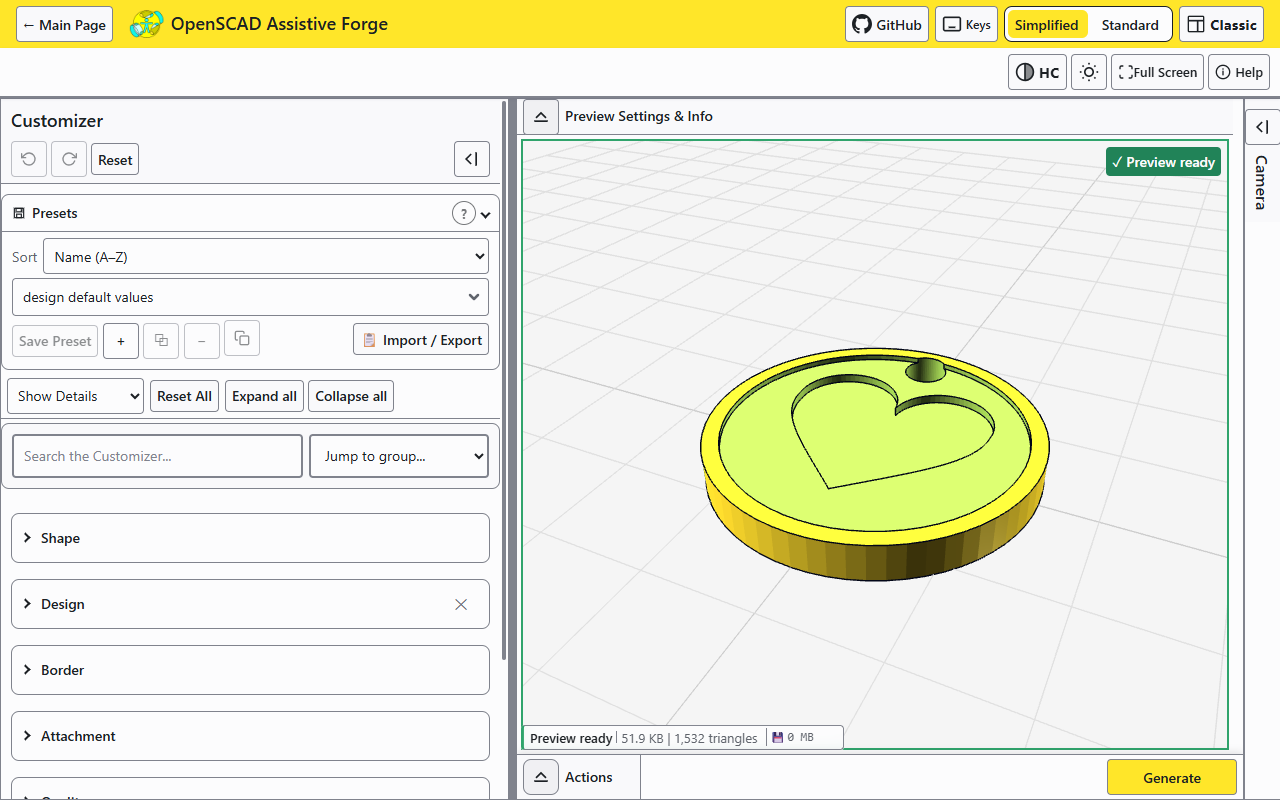
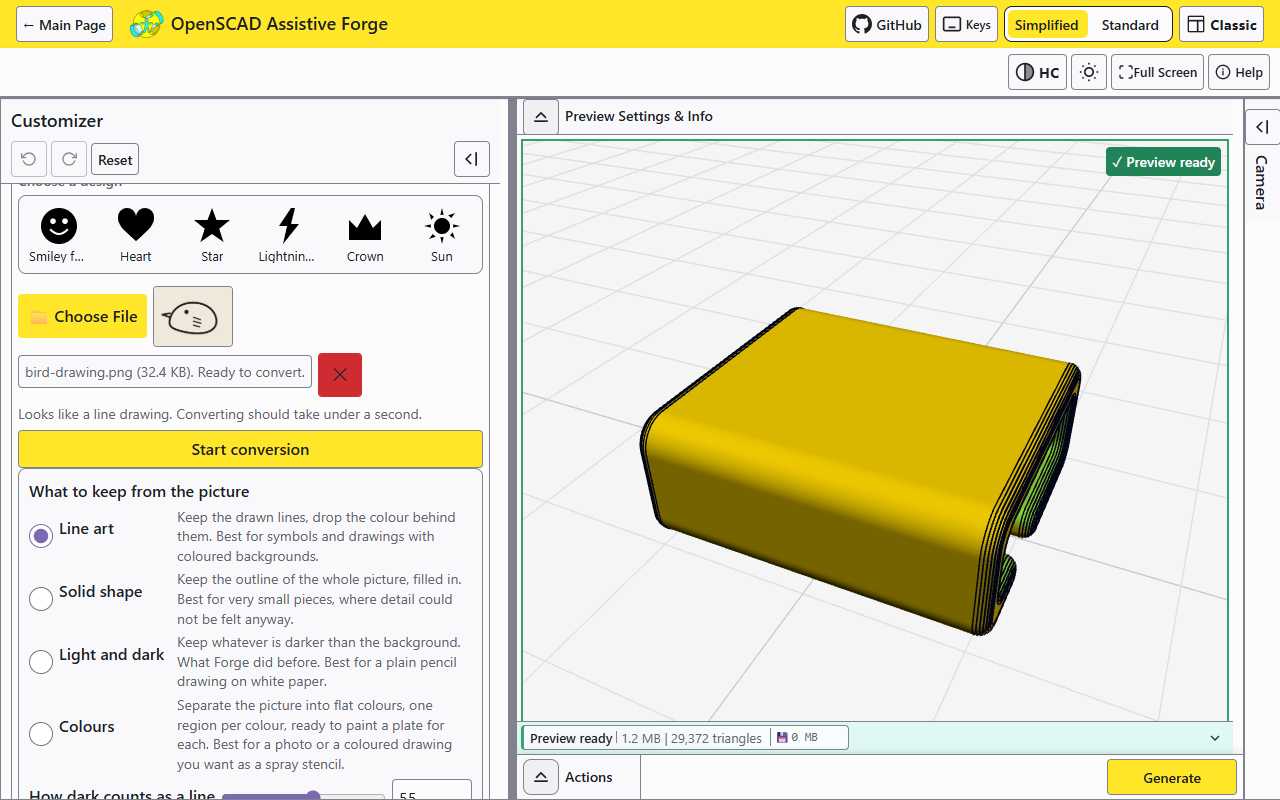
docs(journal): the two pictures this round changed most, retaken (DP-42 P2)
Both were taken before DP-37 through DP-41 and neither showed the app as it
is. The old editor picture is the clearest case: it still said "Regions" and
"Foreground", and its colour key still said "Printed shape" beside a control
saying "Raised" - a defect that was only fixed at P0b, an hour before this
picture was taken.

- charm-customizer.png is now the design file control doing the thing this
  round built: a picture chosen, the quick look's sentence under it ("Looks
  like a line drawing. Converting should take under a second."), Start
  conversion, and the four plain choices for what to keep from a picture.
- drawing-editor.png is the editor on the charm, where the Drawing / Charm
  switch exists - through the standalone door there is no charm to show, so
  the control is not offered there. One picture under "Will print as", the
  colour key reading Raised, Hole and Ignore, and the Shapes panel with the
  signed row beside it.

Both 1280x800 like the rest of the journal. Both are the repo's own bird
drawing; the larger raster that keeps the file control from starting by
itself (DP-Q32: under 0.5 MP and quick, or it waits for Start) was made from
that same fixture and stays out of the tree.

The section's words gained what the pictures cannot say: the quick look and
what waits for Start, the worker and the nineteen seconds that became one
and a half, the rebuilt row and the vocabulary behind it, the Drawing /
[…]

diff --git a/docs/updates/WHATS_NEW_v5.md b/docs/updates/WHATS_NEW_v5.md
@@ -75,7 +75,7 @@ folder instead of a mystery string.
 
 ## A charm from a drawing
 
-![The Charm Designer: a round pendant with a heart design and a hanging hole, with Shape, Design, Border, and Attachment parameter groups](images/charm-customizer.png)
+![The Charm Designer's design file control with a bird drawing chosen. Under the file name it reads "Looks like a line drawing. Converting should take under a second.", then a Start conversion button, then four choices for what to keep from the picture: Line art, Solid shape, Light and dark, and Colours, each with a sentence explaining when to use it](images/charm-customizer.png)
 
 The Charm Designer turns a simple drawing into a wearable pendant,
 and feeding it your own art is now a documented job rather than a
@@ -86,7 +86,26 @@ Symbols keep their pictures instead of turning into coloured blobs,
 and if another program is watching a folder, your edits can land
 straight in it.
 
-![The drawing editor: a bird line drawing filling the editor as one picture, with a shapes panel open beside it and Save edited SVG and Save as DXF buttons in the toolbar](images/drawing-editor.png)
+Handing it a photograph or a PNG used to be a gamble. You chose a
+file and the page went away for as long as it took, with nothing to
+look at and no way back. Now, before anything heavy starts, Forge
+takes a quick look at the picture and tells you in one sentence what
+it seems to be and roughly what it will cost - and then waits. A
+picture small and simple enough to be quick gets on with it by
+itself; anything bigger waits for **Start conversion**, and while it
+runs there is a moving bar and a **Cancel** that actually stops the
+work. Underneath,
+four plain choices decide what to keep from the picture, each with a
+sentence about when to reach for it rather than a name you have to
+already know.
+
+Conversions are also a great deal faster. The tracing now runs on a
+worker thread, so the page keeps answering while it works, and one
+particular step that used to dominate everything was replaced: a
+drawing that took nineteen seconds to come back now takes about one
+and a half.
+
+![The drawing editor over the charm preview: a bird line drawing fills the left side under the heading "Will print as", with a colour key reading Raised, Hole and Ignore beneath it. A Drawing / Charm switch sits in the toolbar with Drawing chosen. On the right, a Shapes panel lists seven shapes; each row has the shape's name and a Raised / Hole / Ignore switch with one choice highlighted](images/drawing-editor.png)
 
 The editor itself got the change I care most about: it is **one
 picture** now. The drawing you are editing fills the space, and
@@ -96,6 +115,25 @@ takes half the room by default. A DXF's curves arrive whole now too
 (a sketch that used to open as two shapes opens with all of them),
 and anything the engine has to say about a file shows up in the
 editor's own warnings list instead of disappearing.
+
+The panel beside the drawing was rebuilt around a single row. Each
+shape gets its name, one switch reading **Raised · Hole · Ignore**,
+and a **More** button for the rest - and the row can say when it has
+run out of room instead of quietly eating the name, which is what it
+used to do on a narrow screen. The words changed too: what the panel
+calls a thing, what the row calls it, and what a screen reader says
+about it are now the same words. A **Drawing / Charm** switch in the
+toolbar turns the picture into the charm it will become without
+leaving the editor, and while you are editing, previews are drawn at
+draft quality so they arrive quickly and go back to full quality when
+you close.
+
+On a phone or a tablet the drawing takes two fingers to zoom and pan,
+one finger still scrolls the page, and hovering or pressing a shape
+marks its row in the list. Combining a complicated drawing no longer
+freezes the page either: that work moved off the main thread, with a
+bar and a Cancel of its own, and Forge now measures how long it is
+likely to take and decides on that rather than on a count of shapes.
 
 ## A stencil from a picture
 
